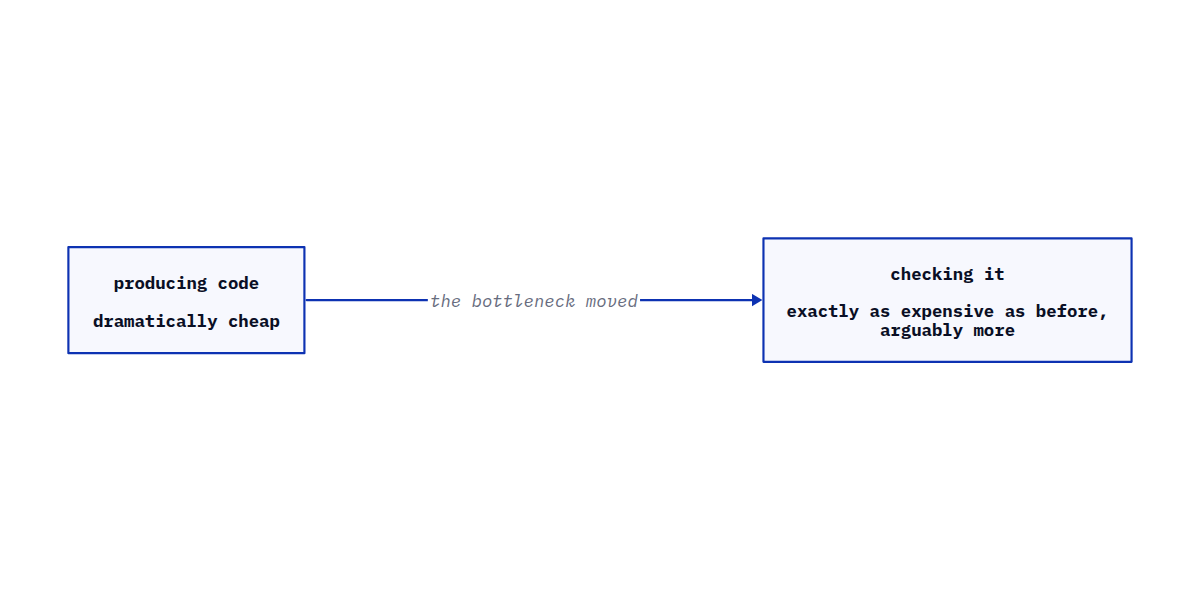
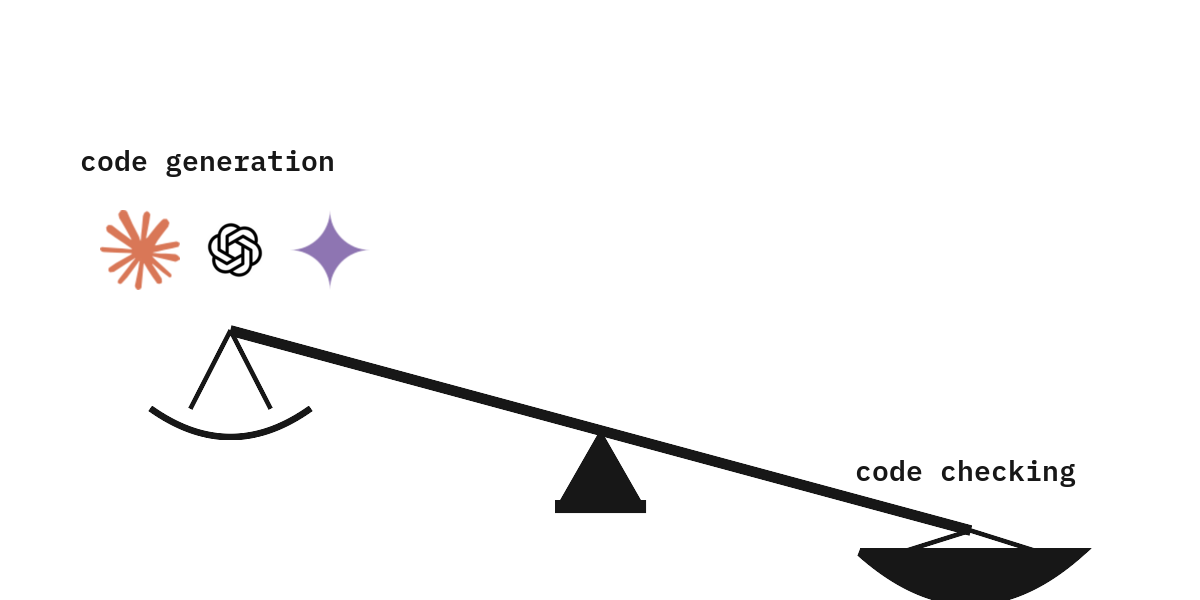
Draw a balance scale for the cost-of-checking hero
Adriano's brief: a stylized scale, code generation in the light pan
carrying the real Claude/ChatGPT/Gemini logos (raised), code checking in
the heavy pan (lowered) — the post's own asymmetry made literal. The
frame is hand-drawn (a scale has no natural D2 layout); the three logos
are real brand marks, not drawn.

Sources: Claude and Gemini from simple-icons' brand SVGs; OpenAI has no
simple-icons entry, so its mark comes from openai's own GitHub org
avatar, same approach used earlier for OpenFGA/Permify/Permit.io.

Replaces the two-tier gate diagram, which stays in the body untouched.

Diagram heroes: 15 initially, 3 now.

diff --git a/src/content/blog/cost-of-checking.md b/src/content/blog/cost-of-checking.md
@@ -4,7 +4,7 @@ description: "Obrussa is an approach I'm trying right now: treating AI-assisted 
 pubDate: 'May 5 2026'
 tags: ["ai", "architecture"]
 heroImage: "../../assets/blog/cost-of-checking/hero.png"
-heroAlt: "Producing code, now dramatically cheap, against checking it, which costs exactly what it did before — the bottleneck moving from one to the other"
+heroAlt: "A balance scale: the light pan, raised, holds code generation with the Claude, ChatGPT and Gemini logos; the heavy pan, lowered, holds code checking"
 ---
 
 This is an approach I started building in 2026 and am still in the middle of. It has no results to report yet — no before-and-after numbers, no verdict. I'm writing it down because the reasoning behind it is the part I'd want to read from someone else, and because committing to it in public makes it harder for me to quietly move the goalposts later.
